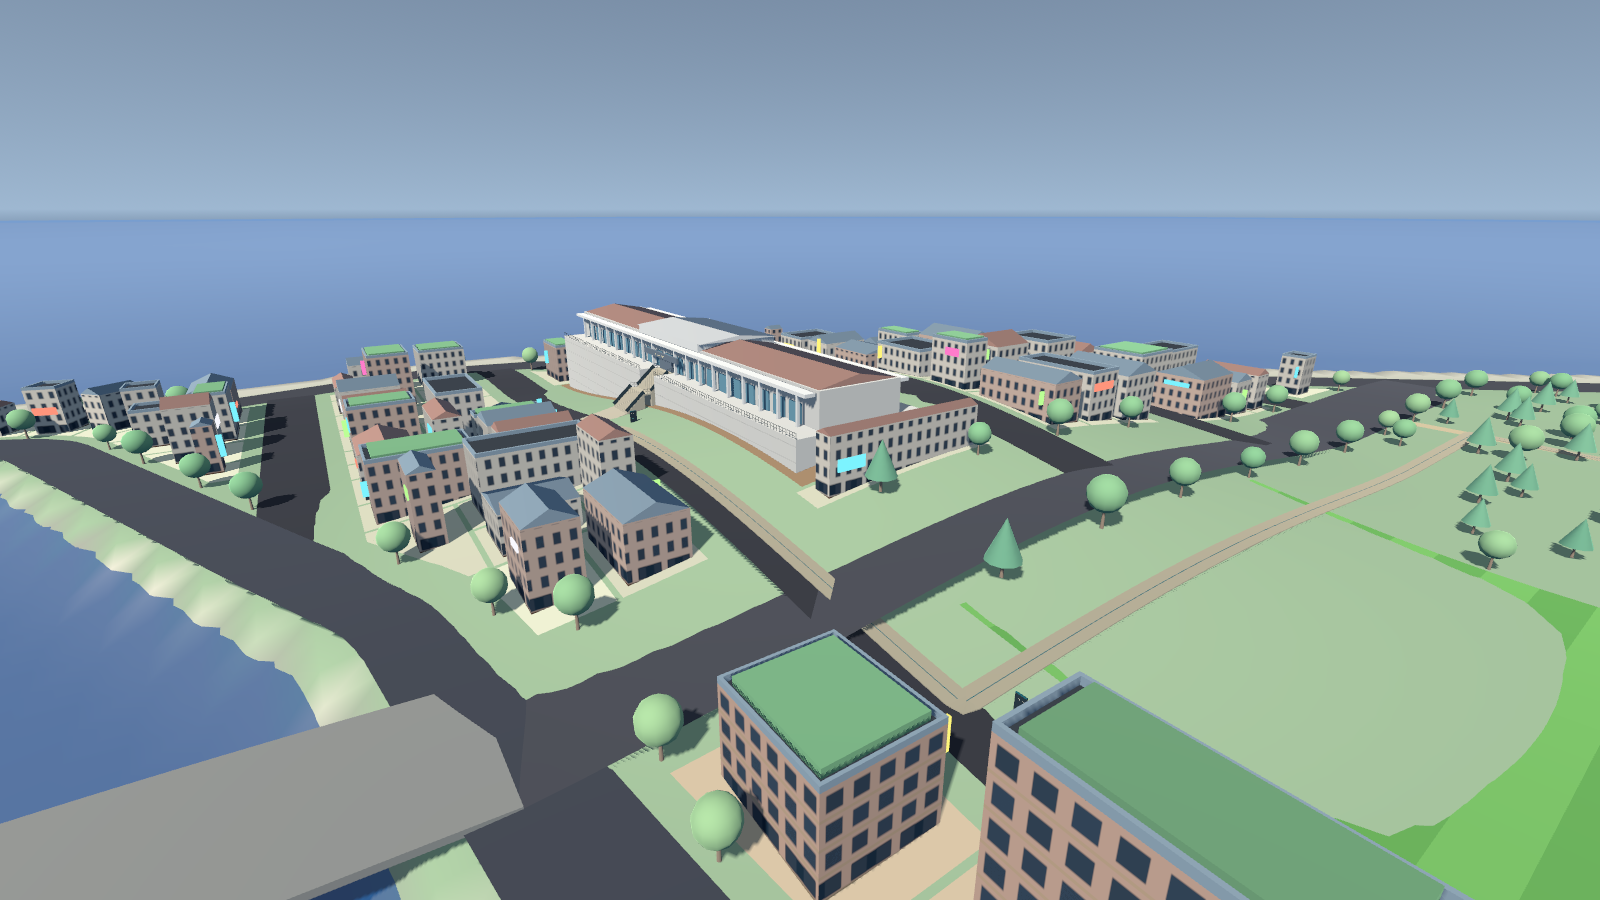
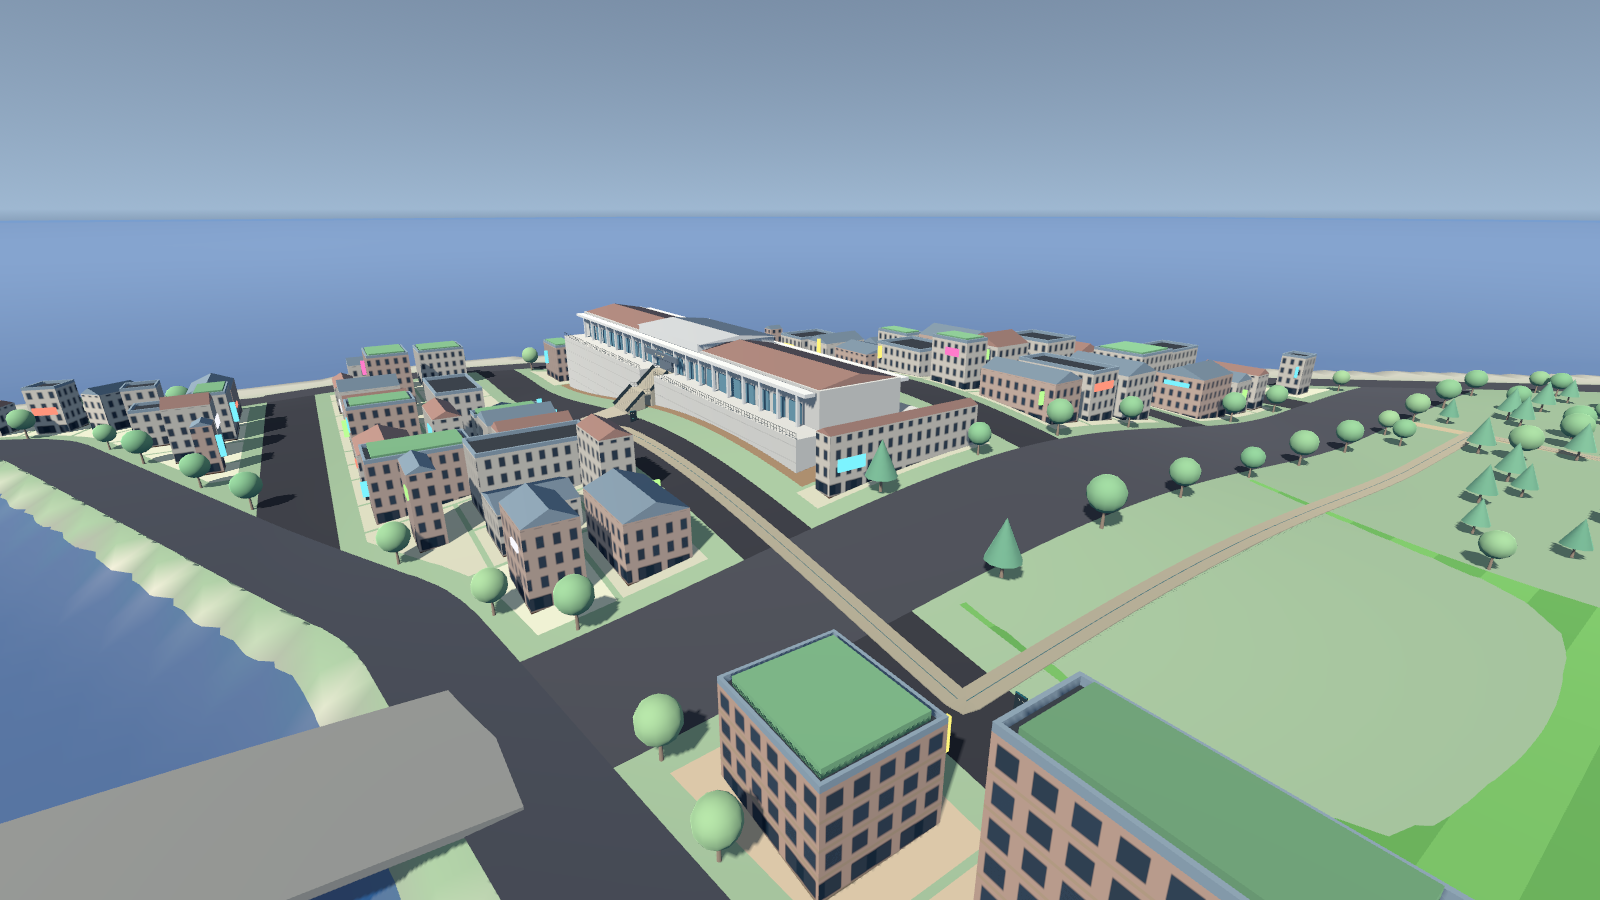
Repair hillside road clipping and profile connected Meridia slice

diff --git a/docs/meridia-performance.md b/docs/meridia-performance.md
@@ -67,3 +67,37 @@ Further work should inspect custom arch meshes and shadow submissions.
 Set `STATION_UNBATCHED=1` for comparison; default rendering uses batching.
 `tests/static_batch_test.gd` requires a rendering window to verify MultiMesh
 transforms, equivalent/different materials, layers, glass and live-board exclusions.
+
+## Connected slice review — 2026-10-01
+
+The latest run includes the playable lake loop, library branch and hillside road
+repair. Roads now sample across their width; they retain one surface per road kind.
+The profiler adds five walking-height views derived from the civic arrival and
+park bridge plans. The hardware, 1600 × 900 resolution, Forward+ renderer, disabled
+VSync and 60/180 warmup/sample frame counts match the earlier measurements.
+
+| View | Median frame (ms) | P95 frame (ms) | Mean draw calls |
+| --- | ---: | ---: | ---: |
+| Overview | 3.81 | 4.31 | 6,450 |
+| Skyline | 1.68 | 1.95 | 2,566 |
+| Station | 5.75 | 6.85 | 9,714 |
+| Park | 2.58 | 2.91 | 4,314 |
+| Street | 4.05 | 4.54 | 6,336 |
+| Museum approach | 1.35 | 1.58 | 1,522 |
+| Library stairs | 1.31 | 1.48 | 329 |
+| Library street | 1.29 | 1.52 | 1,220 |
+| Lake bridge 1 | 1.29 | 1.50 | 1,055 |
+| Lake bridge 2 | 1.41 | 1.64 | 1,802 |
+
+All ten sampled P95 frame intervals remain below 16.67 ms on this RTX 3080.
+Station rendering remains the heaviest view. This run's station CPU render median
+is 3.71 ms and GPU render median is 1.85 ms; frame time is higher than the previous
+batching sample, so this is not a claimed speed improvement. Short fixed-camera
+viewer measurements exclude walking physics, train interaction and the walking-map
+overlay. They do not establish minimum hardware requirements.
+
+Video memory is approximately 386–387 MiB. Runtime city construction remains a
+multi-second synchronous startup task. Loading feedback and caching generated
+static content are the next performance priorities before expanding scope.
+[Raw connected-slice measurements](meridia-performance-connected.json) preserve
+startup time, hardware and all render timings.

diff --git a/docs/meridia-roadmap.md b/docs/meridia-roadmap.md
@@ -260,6 +260,7 @@ godot --path . --script res://tools/profile_meridia.gd
 godot --path . --script res://tests/static_batch_test.gd
 godot --headless --path . --script res://tests/route_guide_test.gd
 godot --path . --script res://tests/route_guide_test.gd
+godot --headless --path . --script res://tests/road_drape_test.gd
 ```
 
 The capture tool writes thirty 1600 × 900 images to `tests/out/meridia` (ignored by
@@ -359,3 +360,27 @@ from the previous 1,030-second connected traversal milestone.
 ![Walking route guide](images/meridia-route-guide.png)
 
 ![Walking map at a smaller window size](images/meridia-route-guide-small.png)
+
+## Visual and rendering review — 2026-10-01
+
+The walking-height library screenshot exposed triangular terrain strips cutting
+through the road. Road ribbons previously held both edges at centreline elevation,
+so an uphill edge could be buried. Road surfaces now sample terrain across their
+width at intervals of at most 2 m. The original footprint, shared bend sections and
+surface batching are preserved. Normals use the resulting mesh, avoiding extra
+terrain samples. Bridge arches and walking collision are unchanged.
+
+The road regression checks uphill edge and triangle clearance on a curved slope,
+the original footprint through a bend, upward winding and unit normals. It and
+generated-city smoke checks passed. Updated overview and walking-height library
+captures were inspected. The expanded ten-view GPU profile has a worst sampled
+P95 frame time of 6.85 ms on the RTX 3080; see `meridia-performance.md` for scope
+and raw timings. Startup still needs loading feedback and static-content caching.
+
+Before the hillside road repair:
+
+![Terrain clipping through the hillside road](images/meridia-road-clipping-before.png)
+
+After the repair, with the same camera:
+
+![Road following the hillside](images/meridia-library-trail.png)

diff --git a/city/README.md b/city/README.md
@@ -54,6 +54,13 @@ Ground and deep seabed share the same shader/color path to prevent an offshore
 rectangle. `tests/terrain_detail_test.gd` checks coverage and boundary stitching.
 See `docs/meridia-performance.md` for the measured viewer rendering budget.
 
+Road surfaces sample terrain across their width at intervals of at most 2 m,
+instead of holding both edges at the centreline height. This keeps hillside ground
+from cutting through the road. Shared bend sections and one surface per road kind
+are preserved; normals come from adjacent mesh vertices. Bridge decks retain their
+existing arch geometry. `tests/road_drape_test.gd` checks a curved hillside's edge
+clearance, footprint, winding and normals.
+
 City validation checks architecture bounds and the terrace's absolute sightline
 height. `tests/architecture_test.gd` also checks determinism, planted-roof support,
 sign mounting, roof winding, and separation of the station's two stair systems.
